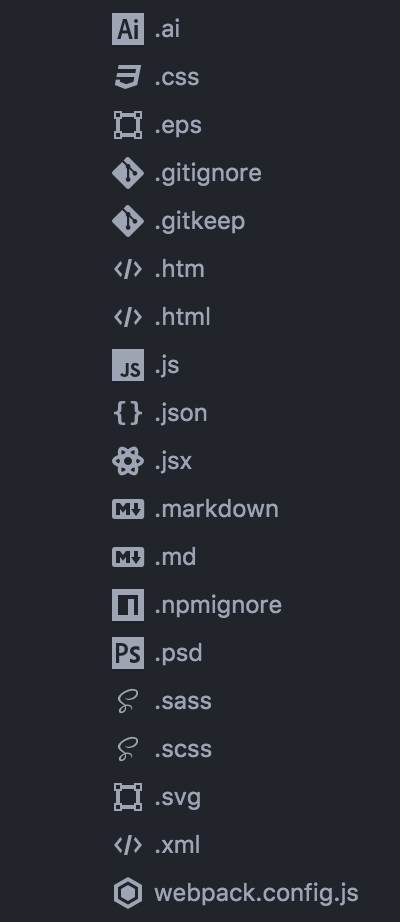
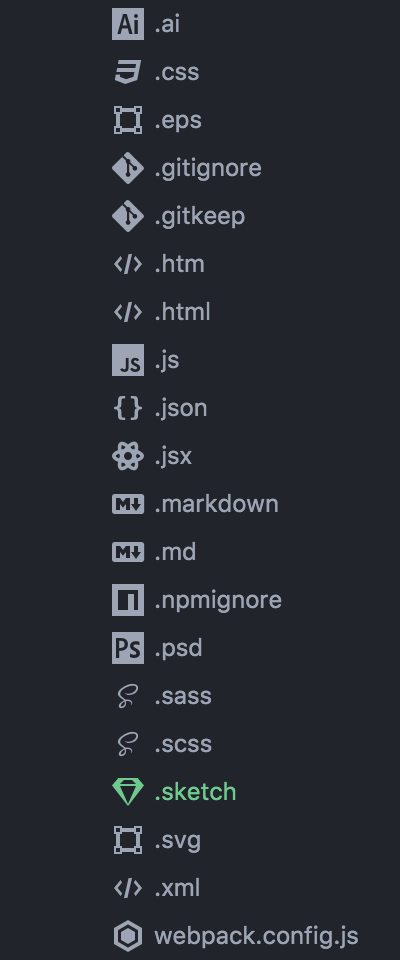
0.4.0 - Bling bling

Changed region(s): [[0.39, 0.1215, 0.9, 1.0], [0.27, 0.0, 0.36, 1.0], [0.39, 0.0, 0.51, 0.0911]]

diff --git a/styles/icons.less b/styles/icons.less
@@ -9,5 +9,6 @@
 @icon-npm: "\e908";
 @icon-ps: "\e909";
 @icon-sass: "\e90a";
-@icon-vector: "\e90b";
-@icon-webpack: "\e90c";
+@icon-sketch: "\e90b";
+@icon-vector: "\e90c";
+@icon-webpack: "\e90d";

diff --git a/styles/index.less b/styles/index.less
@@ -43,6 +43,9 @@
 .icon('.sass', 'sass');
 .icon('.scss', 'sass');
 
+// sketch
+.icon('.sketch', 'sketch');
+
 // xml
 .icon('.xml', 'html');
 

diff --git a/CHANGELOG.md b/CHANGELOG.md
@@ -1,3 +1,7 @@
+## 0.4.0 - Bling bling (2016-05-05)
+### Added
+* sketch (.sketch)
+
 ## 0.3.1 - Greedy pixels (2016-05-05)
 ### Fixed
 * Size of preview.png is too big
